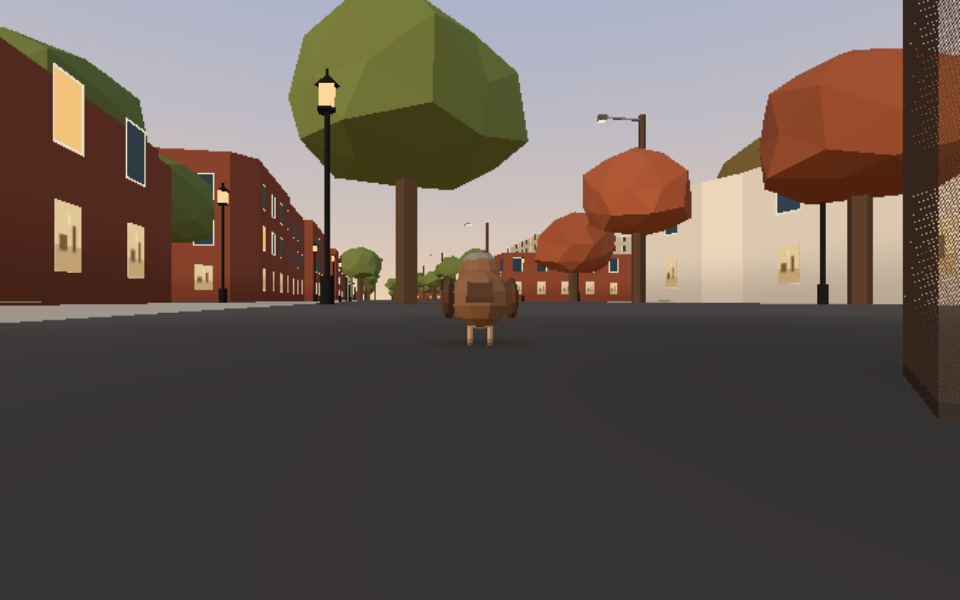
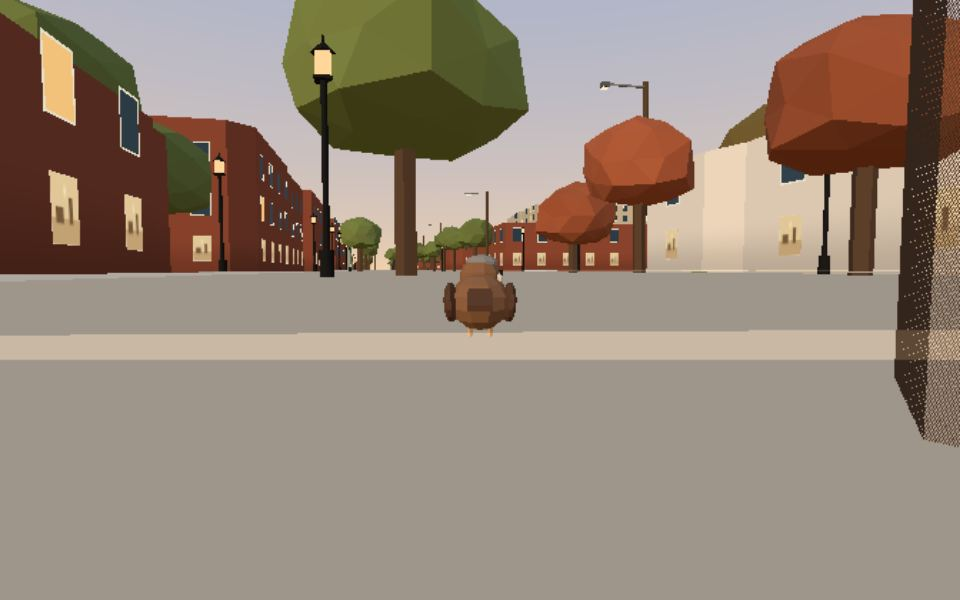
The walk: a showcase warp sets the camera's tilt outright
Code review (PR #53): warpTo applied a shot's pitch with director.drag,
a nudge from wherever the camera already was, so the same shot landed at
a different tilt depending on how you'd been looking, and a run of warps
(the showcase captures) walked the tilt down to the floor clamp.

- director.pitchTo sets the tilt outright, within a drag's limits.
- warpTo keeps the shots' meaning (pitch in drag units from the walk's
  resting tilt of 0.3 rad; showcase.mjs writes -60, i.e. 0.06 rad) and
  sets it every time; a shot without one goes to the resting tilt.
- Checked: one shot warped to from three tilts lands at 0.063 rad each
  time (before: 0.06, then -0.12 clamped, ...). The six photos are
  retaken at that tilt; five had been taken at the clamped one.

Tests: 75 pass.

Claude-Session: https://claude.ai/code/session_01Sqvwr8dK6XW4bHnoDiBqLH

diff --git a/public/sparrow/main.js b/public/sparrow/main.js
@@ -1299,6 +1299,8 @@ const director = (() => {
       zoom = clamp(zoom * f, 0.3, 45); lastInputT = t;
     },
     zoomTo(z) { hold = null; zoom = clamp(z, 0.3, 45); lastInputT = t; },
+    /** Set the tilt outright (a warp's), in radians, within a drag's limits: the same view from wherever you were. */
+    pitchTo(p) { pitch = pitchT = clamp(p, bird.air ? -0.6 : -0.12, 1.35); pitchV = 0; },
     /** Swoop down from above the whole site to the bird. */
     crane() {
       if (REDUCED) return;
@@ -1996,7 +1998,9 @@ function warpTo(shot, done) {
     bird.heading = Math.atan2(lx - sx, lz - sz);
     director.snapBehind();
     director.zoomTo(shot.zoom || 1);
-    if (shot.pitch) director.drag(0, shot.pitch);
+    // A shot's pitch is in drag units from the walk's resting tilt (0.3 rad; showcase.mjs writes -60): set outright,
+    // not nudged from wherever the camera was, so a shot looks the same however you came to it.
+    director.pitchTo(0.3 + (shot.pitch || 0) * 0.004);
     $("fade").classList.remove("on");
     if (done) done();
   }, 360);
